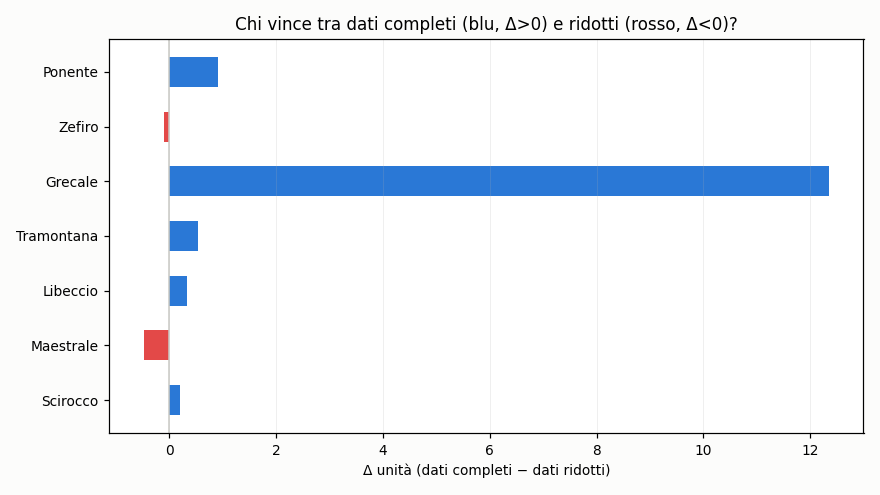
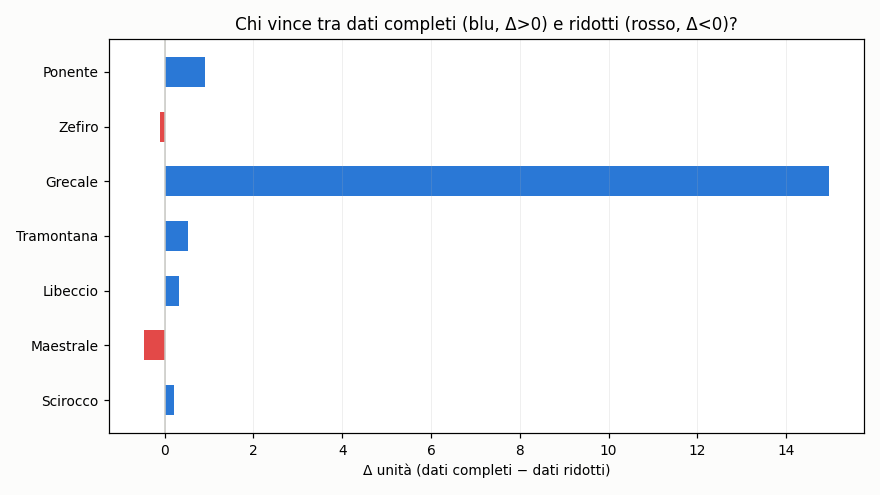
aggiornamento 2026-07-29 14:11 UTC

diff --git a/README.md b/README.md
@@ -37,9 +37,9 @@ scala in unità). Non indichiamo quale.
 
 ## Grafici
 
-![Coppie: dati completi vs ridotti](https://raw.githubusercontent.com/Kitem19/ippica-track-record/main/charts/equity_pairs.png?v=419c619b)
+![Coppie: dati completi vs ridotti](https://raw.githubusercontent.com/Kitem19/ippica-track-record/main/charts/equity_pairs.png?v=9f8a7909)
 
-![Delta per coppia](https://raw.githubusercontent.com/Kitem19/ippica-track-record/main/charts/coppie_delta.png?v=a8dc1c26)
+![Delta per coppia](https://raw.githubusercontent.com/Kitem19/ippica-track-record/main/charts/coppie_delta.png?v=708da2f1)
 
 ### Come leggere i grafici
 
@@ -60,7 +60,7 @@ _Poche giornate: numeri ancora rumorosi, si conclude a fine fase (31/7)._
 - **Maestrale**: in sostanziale pareggio — troppo presto per dire
 - **Libeccio**: in sostanziale pareggio — troppo presto per dire
 - **Tramontana**: in sostanziale pareggio — troppo presto per dire
-- **Grecale**: dati completi avanti di 12,4u
+- **Grecale**: dati completi avanti di 15,0u
 - **Zefiro**: in sostanziale pareggio — troppo presto per dire
 - **Ponente**: in sostanziale pareggio — troppo presto per dire
 
@@ -68,22 +68,22 @@ _Poche giornate: numeri ancora rumorosi, si conclude a fine fase (31/7)._
 
 | Sistema | Cassa (u) | P/L (u) | Selezioni | Escluse | Stato |
 |---|---|---|---|---|---|
-| Grecale | 12,1 | -7,9 | 358 | 4 | 🟢 |
-| Maestrale-B | 0,0 | -20,0 | 100 | 293 | 🛑 |
+| Grecale | 14,7 | -5,3 | 359 | 4 | 🟢 |
+| Maestrale-B | 0,0 | -20,0 | 100 | 294 | 🛑 |
 | Ponente | 0,0 | -20,0 | 213 | 62 | 🛑 |
-| Scirocco | 0,0 | -20,1 | 80 | 314 | 🛑 |
+| Scirocco | 0,0 | -20,1 | 80 | 315 | 🛑 |
 | Grecale-B | 0,0 | -20,2 | 137 | 202 | 🛑 |
-| Scirocco-B | 0,0 | -20,3 | 267 | 6 | 🛑 |
-| Tramontana | 0,0 | -20,3 | 45 | 350 | 🛑 |
-| Zefiro-B | 0,0 | -20,5 | 143 | 99 | 🛑 |
-| Maestrale | 0,0 | -20,5 | 104 | 312 | 🛑 |
-| Zefiro | 0,0 | -20,6 | 268 | 37 | 🛑 |
-| Libeccio | 0,0 | -20,6 | 181 | 217 | 🛑 |
-| Tramontana-B | 0,0 | -20,8 | 324 | 64 | 🛑 |
-| Libeccio-B | 0,0 | -20,9 | 119 | 227 | 🛑 |
-| Ponente-B | 0,0 | -21,0 | 63 | 117 | 🛑 |
+| Scirocco-B | 0,0 | -20,3 | 267 | 7 | 🛑 |
+| Tramontana | 0,0 | -20,3 | 45 | 351 | 🛑 |
+| Zefiro-B | 0,0 | -20,5 | 143 | 100 | 🛑 |
+| Maestrale | 0,0 | -20,5 | 104 | 313 | 🛑 |
+| Zefiro | 0,0 | -20,6 | 268 | 38 | 🛑 |
+| Libeccio | 0,0 | -20,6 | 181 | 218 | 🛑 |
+| Tramontana-B | 0,0 | -20,8 | 324 | 65 | 🛑 |
+| Libeccio-B | 0,0 | -20,9 | 119 | 228 | 🛑 |
+| Ponente-B | 0,0 | -21,0 | 63 | 118 | 🛑 |
 
-_Aggiornato: 29/07 16:06_
+_Aggiornato: 29/07 16:11_
 ---
 *Nessuna delle informazioni qui pubblicate costituisce consiglio di gioco.
 Il gioco può causare dipendenza — 18+.*
